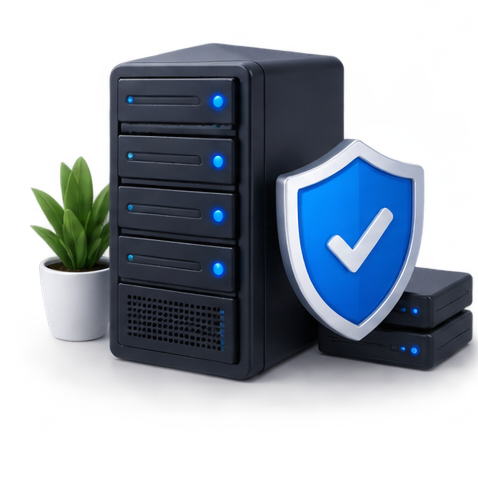
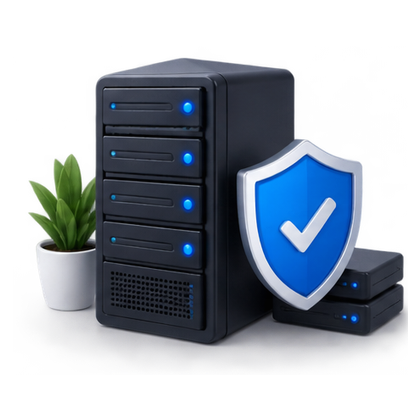
Servicios: normalizar tamaño de ilustraciones, más protagonismo y hover mas suave (scale 1.05)

Changed region(s): [[0.0619, 0.0619, 1.0, 0.8667]]

diff --git a/index.html b/index.html
@@ -13,7 +13,7 @@
 <meta name="twitter:card" content="summary" />
 <link rel="icon" href="favicon.png" type="image/png" sizes="64x64" />
 <link rel="apple-touch-icon" href="favicon.png" />
-<link rel="stylesheet" href="styles.css?v=11" />
+<link rel="stylesheet" href="styles.css?v=12" />
 </head>
 <body>
 
@@ -152,7 +152,7 @@
         <h3>Diseño Web</h3>
         <p>Páginas web profesionales que representan tu marca y convierten visitantes en clientes.</p>
         <a href="diseno-web.html" class="link-arrow">Saber más <svg width="12" height="12" viewBox="0 0 24 24" fill="none"><path d="M5 12h14M13 6l6 6-6 6" stroke="currentColor" stroke-width="2" stroke-linecap="round" stroke-linejoin="round"/></svg></a>
-        <img class="service-illustration" src="images/service-diseno-web.png?v=2" alt="" loading="lazy">
+        <img class="service-illustration" src="images/service-diseno-web.png?v=3" alt="" loading="lazy">
       </article>
 
       <article class="service-card">
@@ -160,7 +160,7 @@
         <h3>Tiendas Online</h3>
         <p>Vende tus productos 24/7 con tiendas online rápidas, seguras y fáciles de gestionar.</p>
         <a href="tiendas-online.html" class="link-arrow">Saber más <svg width="12" height="12" viewBox="0 0 24 24" fill="none"><path d="M5 12h14M13 6l6 6-6 6" stroke="currentColor" stroke-width="2" stroke-linecap="round" stroke-linejoin="round"/></svg></a>
-        <img class="service-illustration" src="images/service-tiendas-online.png?v=2" alt="" loading="lazy">
+        <img class="service-illustration" src="images/service-tiendas-online.png?v=3" alt="" loading="lazy">
       </article>
 
       <article class="service-card">
@@ -168,7 +168,7 @@
         <h3>Informática</h3>
         <p>Montaje, instalación y configuración de equipos para empresas y particulares.</p>
         <a href="informatica.html" class="link-arrow">Saber más <svg width="12" height="12" viewBox="0 0 24 24" fill="none"><path d="M5 12h14M13 6l6 6-6 6" stroke="currentColor" stroke-width="2" stroke-linecap="round" stroke-linejoin="round"/></svg></a>
-        <img class="service-illustration" src="images/service-informatica.png?v=2" alt="" loading="lazy">
+        <img class="service-illustration" src="images/service-informatica.png?v=3" alt="" loading="lazy">
       </article>
 
       <article class="service-card">
@@ -176,7 +176,7 @@
         <h3>Reparaciones</h3>
         <p>Solucionamos problemas de hardware y software para que todo vuelva a funcionar como debe.</p>
         <a href="reparaciones.html" class="link-arrow">Saber más <svg width="12" height="12" viewBox="0 0 24 24" fill="none"><path d="M5 12h14M13 6l6 6-6 6" stroke="currentColor" stroke-width="2" stroke-linecap="round" stroke-linejoin="round"/></svg></a>
-        <img class="service-illustration" src="images/service-reparaciones.png?v=2" alt="" loading="lazy">
+        <img class="service-illustration" src="images/service-reparaciones.png?v=3" alt="" loading="lazy">
       </article>
 
       <article class="service-card">
@@ -184,7 +184,7 @@
         <h3>Mantenimiento</h3>
         <p>Mantenemos tus equipos seguros, actualizados y siempre en óptimas condiciones.</p>
         <a href="mantenimiento.html" class="link-arrow">Saber más <svg width="12" height="12" viewBox="0 0 24 24" fill="none"><path d="M5 12h14M13 6l6 6-6 6" stroke="currentColor" stroke-width="2" stroke-linecap="round" stroke-linejoin="round"/></svg></a>
-        <img class="service-illustration" src="images/service-mantenimiento.png?v=2" alt="" loading="lazy">
+        <img class="service-illustration" src="images/service-mantenimiento.png?v=3" alt="" loading="lazy">
       </article>
 
       <article class="service-card">
@@ -192,7 +192,7 @@
         <h3>Redes y Soporte</h3>
         <p>Redes, impresoras, WiFi y soporte IT para que tu negocio nunca se detenga.</p>
         <a href="redes-soporte.html" class="link-arrow">Saber más <svg width="12" height="12" viewBox="0 0 24 24" fill="none"><path d="M5 12h14M13 6l6 6-6 6" stroke="currentColor" stroke-width="2" stroke-linecap="round" stroke-linejoin="round"/></svg></a>
-        <img class="service-illustration" src="images/service-redes-soporte.png?v=2" alt="" loading="lazy">
+        <img class="service-illustration" src="images/service-redes-soporte.png?v=3" alt="" loading="lazy">
       </article>
 
     </div>

diff --git a/styles.css b/styles.css
@@ -345,7 +345,7 @@ ul, ol { list-style: none; }
   box-shadow: var(--shadow);
   border-color: rgba(46, 107, 242, 0.28);
 }
-.service-card:hover .service-illustration { transform: scale(1.06); }
+.service-card:hover .service-illustration { transform: scale(1.05); }
 
 .service-icon {
   position: relative;
@@ -365,13 +365,14 @@ ul, ol { list-style: none; }
 
 .service-illustration {
   position: absolute;
-  right: -8px;
-  bottom: -8px;
-  width: 128px;
-  height: 128px;
+  right: 2px;
+  bottom: 14px;
+  width: 150px;
+  height: 150px;
   object-fit: contain;
   object-position: bottom right;
-  transition: transform .35s ease;
+  transition: transform .3s ease;
+  transform-origin: bottom right;
   pointer-events: none;
 }
 
@@ -645,8 +646,8 @@ ul, ol { list-style: none; }
   .services-grid { grid-template-columns: 1fr; }
   .service-card { padding: 26px 22px; }
   .service-card p { max-width: 100%; }
-  .service-illustration { transform: scale(0.85); transform-origin: bottom right; }
-  .service-card:hover .service-illustration { transform: scale(0.9); }
+  .service-illustration { width: 120px; height: 120px; }
+  .service-card:hover .service-illustration { transform: scale(1.05); }
   .services-perks { padding: 20px 6px; }
   .perk { padding: 10px 16px; }
   .btn-cta-services { width: 100%; }
